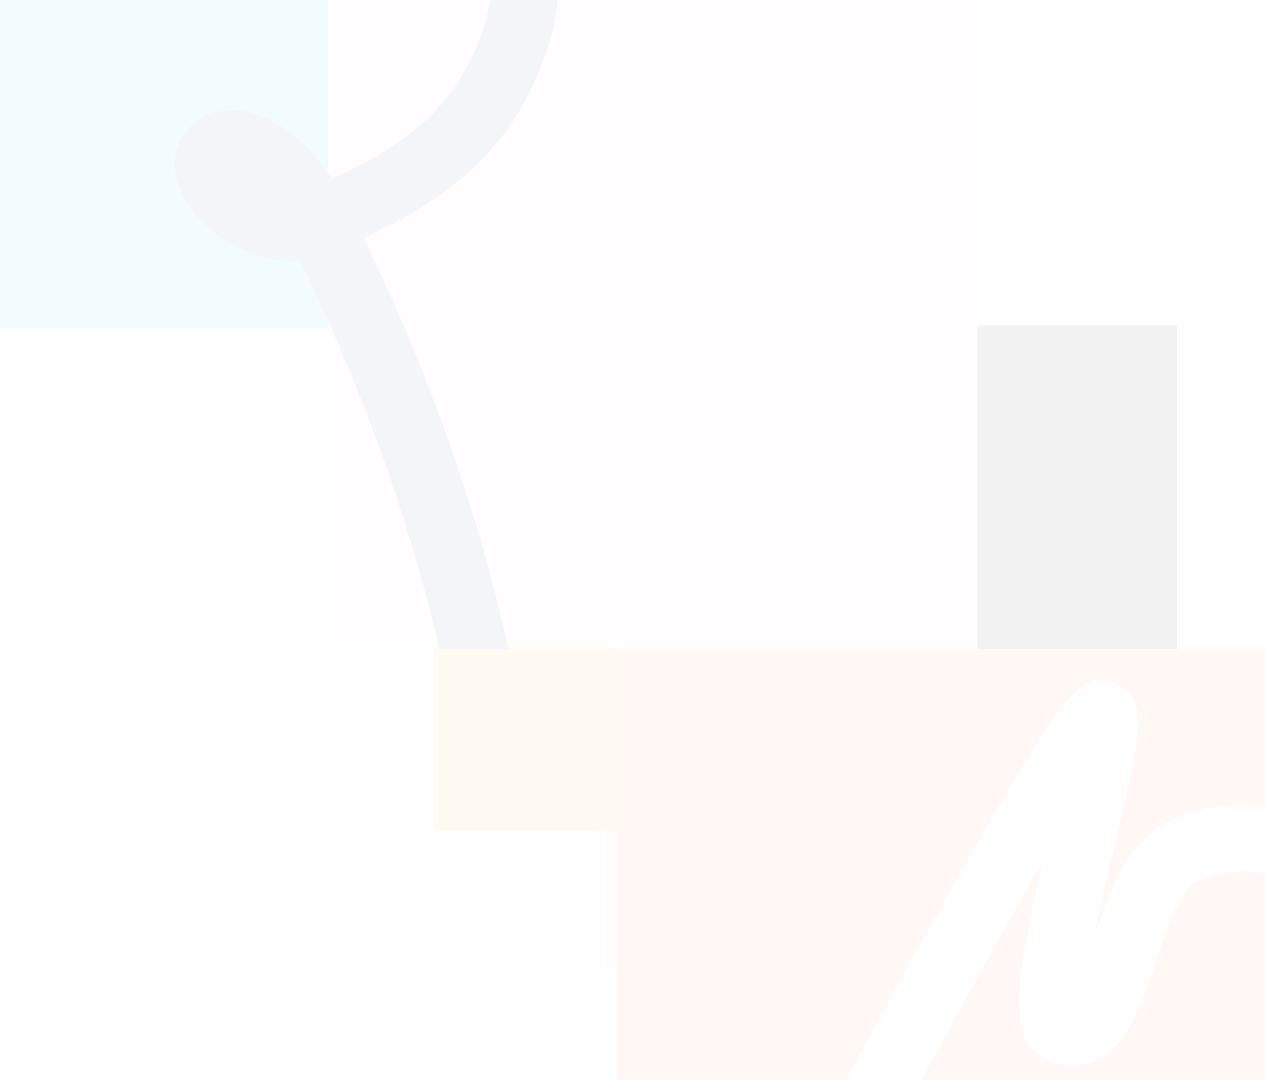
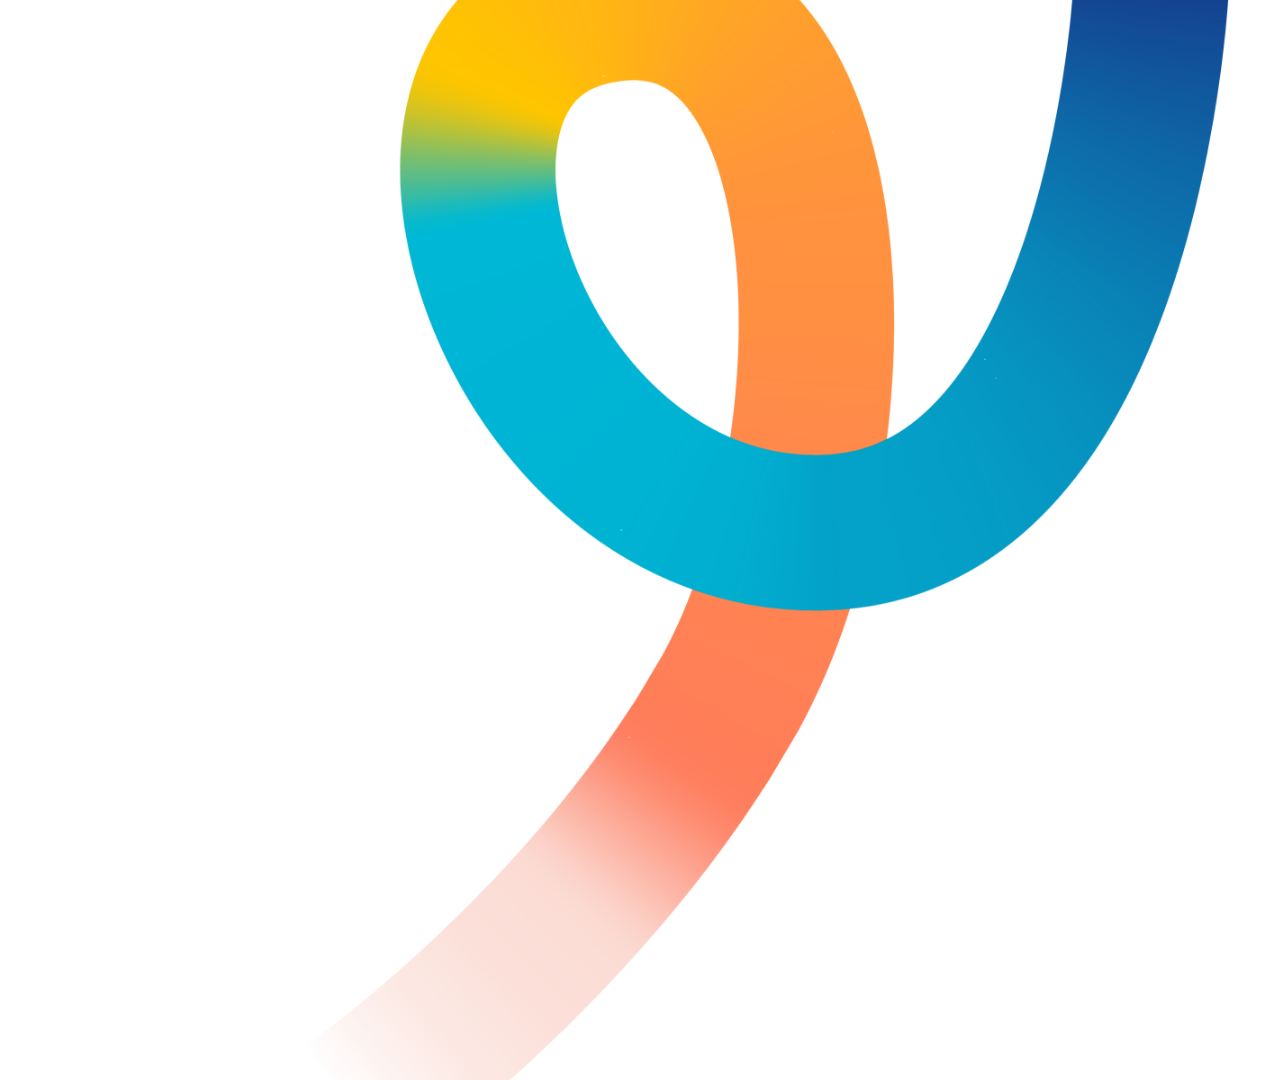
new image of bial academy

Changed region(s): [[0.3081, 0.0, 0.9858, 1.0]]

diff --git a/webapp/src/components/admin/editor/blocks/imageCarousel/index.jsx b/webapp/src/components/admin/editor/blocks/imageCarousel/index.jsx
@@ -1,0 +1,76 @@
+import { Swiper, SwiperSlide } from "swiper/react";
+
+import styles from "../styles.module.css";
+import { Section } from "../../components/section";
+import utils from "../../utils";
+import ImagePickerField from "../image/ImagePickerField";
+
+// Import Swiper styles
+import "swiper/css";
+import "swiper/css/free-mode";
+import "swiper/css/navigation";
+import "swiper/css/thumbs";
+
+import "./styles.css";
+
+// import required modules
+import { FreeMode, Navigation, Thumbs } from "swiper/modules";
+import config from "../../../../../utils/config";
+
+const ImageCarousel = {
+  fields: {
+    images: {
+      type: "array",
+      getItemSummary: (item, i) => item.alt || `Feature #${i}`,
+      defaultItemProps: {
+        alt: "",
+        image: "",
+      },
+      arrayFields: {
+        alt: { type: "text" },
+        image: { type: "custom", label: "Imagem", render: (props) => <ImagePickerField {...props} /> },
+      },
+    },
+    maxWidth: { type: "number" },
+    justifyContent: {
+      label: "Justify Content",
+      type: "radio",
+      options: [
+        { label: "Start", value: "start" },
+        { label: "Center", value: "center" },
+        { label: "End", value: "end" },
+      ],
+    },
+    alignItems: {
+      label: "Align Items",
+      type: "radio",
+      options: [
+        { label: "Start", value: "start" },
+        { label: "Center", value: "center" },
+        { label: "End", value: "end" },
+      ],
+    },
+    maxWidth: { type: "text" },
+  },
+  defaultProps: {
+    images: [],
+    maxWidth: 700,
+    justifyContent: "center",
+    alignItems: "center",
+  },
+  render: ({ images, alignItems, justifyContent, maxWidth }) => {
+    return (
+      <Section maxWidth={maxWidth} justifyContent={justifyContent} alignItems={alignItems}>
+        <Swiper spaceBetween={10} navigation={true} modules={[FreeMode, Navigation]} className="mySwiper2">
+          {images.map((item, i) => (
+            <SwiperSlide>
+              <img alt={item.alt} src={`${config.server_ip}/media/${item.image.url}`}></img>
+            </SwiperSlide>
+          ))}
+        </Swiper>
+      </Section>
+    );
+  },
+};
+
+export default ImageCarousel;

diff --git a/webapp/src/components/admin/editor/blocks/imageCarousel/styles.css b/webapp/src/components/admin/editor/blocks/imageCarousel/styles.css
@@ -1,0 +1,62 @@
+.swiper {
+  width: 100%;
+  height: 100%;
+}
+
+.swiper-slide {
+  text-align: center;
+  font-size: 18px;
+  background: #444;
+
+  /* Center slide text vertically */
+  display: flex;
+  justify-content: center;
+  align-items: center;
+}
+
+.swiper-slide img {
+  display: block;
+  width: 100%;
+  height: 100%;
+  object-fit: cover;
+}
+
+.swiper {
+  width: 100%;
+  height: 300px;
+  margin-left: auto;
+  margin-right: auto;
+}
+
+.swiper-slide {
+  background-size: cover;
+  background-position: center;
+}
+
+.mySwiper2 {
+  height: 80%;
+  width: 100%;
+}
+
+.mySwiper {
+  height: 20%;
+  box-sizing: border-box;
+  padding: 10px 0;
+}
+
+.mySwiper .swiper-slide {
+  width: 25%;
+  height: 100%;
+  opacity: 0.4;
+}
+
+.mySwiper .swiper-slide-thumb-active {
+  opacity: 1;
+}
+
+.swiper-slide img {
+  display: block;
+  width: 100%;
+  height: 100%;
+  object-fit: cover;
+}

diff --git a/webapp/src/layout/main.jsx b/webapp/src/layout/main.jsx
@@ -3,7 +3,7 @@ import { CloseOutlined, DashboardOutlined, DashOutlined, DownOutlined, LoginOutl
 import { Avatar, Button, Divider, Drawer, Dropdown, Layout, Menu } from "antd";
 import { Link, Outlet, useLocation, useNavigate } from "react-router-dom";
 import axios from "axios";
-import logo from "../assets/BIAL-Regional-Academy.svg";
+import logo from "../assets/BIAL-Regional-Academy.png";
 
 import endpoints from "../utils/endpoints";
 import config from "../utils/config";
@@ -17,7 +17,11 @@ import { TbWorld } from "react-icons/tb";
 import { Footer } from "antd/es/layout/layout";
 
 import bialLogo from "../assets/BIAL-logo-footer.svg";
+import bialFooterBg from "../assets/Footer.png";
+import bialFooterMobileBg from "../assets/Footer-mobile.png";
 import NotificationIcon from "../assets/Notifications-off.svg?react";
+import FacebookIcon from "../assets/facebook.svg?react";
+import LinkedInIcon from "../assets/Linkedin.svg?react";
 import { AiFillCloseCircle } from "react-icons/ai";
 import dayjs from "dayjs";
 
@@ -124,7 +128,7 @@ const Main = () => {
                   <div className="bg-[#c1c1c1] p-6 pt-16">
                     <div className="flex justify-start items-center cursor-pointer">
                       <Link to={`/${i18n.language}/account`} className="flex justify-center items-center" onClick={() => closeDrawer()}>
-                        <Avatar className="w-[40px]! h-[40px]!" icon={<FaRegUser />} />
+                        <Avatar className="w-10! h-10!" icon={<FaRegUser />} />
                         <p className="text-[16px] ml-2">
                           {user.name.split(" ")[0]} {user.name.split(" ")[1]}
                         </p>
@@ -371,11 +375,17 @@ const Main = () => {
       <Content className="bg-white min-h-[unset]!">
         <Outlet />
       </Content>
-      <Footer className="bg-[#163986]!">
-        <div className="container flex flex-col md:flex-row justify-between items-end m-auto pt-4 pb-4 gap-8">
+      <Footer className="bg-center! bg-cover!" style={{ background: windowDimension < 768 ? `url(${bialFooterMobileBg})` : `url(${bialFooterBg})` }}>
+        <div className="container flex flex-col md:flex-row justify-between items-end m-auto gap-8">
           <div className="w-full">
-            <div className="mb-4 flex flex-col items-center md:items-start">
-              <p className="text-white">{t("Follow us")}</p>
+            <div className="mb-4 flex justify-center md:justify-start items-center">
+              <p className="text-white mr-4">{t("Follow us")}</p>
+              <Link to={"https://facebook.com/"} target="_blank" className="mr-2">
+                <FacebookIcon className="max-w-7.5" />
+              </Link>
+              <Link to={"https://linkedin.com/"} target="_blank">
+                <LinkedInIcon className="max-w-7.5" />
+              </Link>
             </div>
             <div className="flex justify-center md:justify-start items-center gap-4">
               <Link to={`/${i18n.language}/contact`}>

diff --git a/webapp/src/pages/app/course/eLearning.jsx b/webapp/src/pages/app/course/eLearning.jsx
@@ -20,7 +20,7 @@ import dayjs from "dayjs";
 import Topic from "./topic";
 import Test from "./test";
 
-import logo from "../../../assets/BIAL-Regional-Academy.svg";
+import logo from "../../../assets/BIAL-Regional-Academy.png";
 import Module from "./module";
 import { ArrowLeft, ArrowRight } from "lucide-react";
 
@@ -367,13 +367,11 @@ const Learning = () => {
                             <div className="flex flex-col">
                               <div onClick={() => selectCourseItem(item)} className="p-2 cursor-pointer flex items-center">
                                 {progress.length > 0 && progress.filter((p) => p.activity_type === "module" && p.id_course_module === item.id).length > 0 ? (
-                                  <div
-                                    className={`w-6.25 h-6.25 min-w-6.25 min-h-6.25 min-w-6.25 min-h-6.25 rounded-full bg-[#2F8351] border border-[#2F8351] flex justify-center items-center`}
-                                  >
+                                  <div className={`w-6.25 h-6.25  min-w-6.25 min-h-6.25 rounded-full bg-[#2F8351] border border-[#2F8351] flex justify-center items-center`}>
                                     <AiOutlineCheck className="text-white" />
                                   </div>
                                 ) : (
-                                  <div className={`w-6.25 h-6.25 min-w-6.25 min-h-6.25 min-w-6.25 min-h-6.25 rounded-full bg-white border border-[#2F8351]`}></div>
+                                  <div className={`w-6.25 h-6.25 min-w-6.25 min-h-6.25 rounded-full bg-white border border-[#2F8351]`}></div>
                                 )}
                                 <p className={`text-sm ml-2`}>{item.title}</p>
                                 {data?.course?.settings.progression_type === "linear"
@@ -392,13 +390,11 @@ const Learning = () => {
                               {item.items.map((_t, _i) => (
                                 <div onClick={() => selectCourseItem(_t)} className="p-2 pl-6 cursor-pointer flex items-center">
                                   {progress.length > 0 && progress.filter((p) => p.is_completed && p[`id_course_${_t.type}`] === _t.id).length > 0 ? (
-                                    <div
-                                      className={`w-6.25 h-6.25 min-w-6.25 min-h-6.25 min-w-6.25 min-h-6.25 rounded-full bg-[#2F8351] border border-[#2F8351] flex justify-center items-center`}
-                                    >
+                                    <div className={`w-6.25 h-6.25 min-w-6.25 min-h-6.25 rounded-full bg-[#2F8351] border border-[#2F8351] flex justify-center items-center`}>
                                       <AiOutlineCheck className="text-white" />
                                     </div>
                                   ) : (
-                                    <div className={`w-6.25 h-6.25 min-w-6.25 min-h-6.25 min-w-6.25 min-h-6.25 rounded-full bg-white border border-[#2F8351]`}></div>
+                                    <div className={`w-6.25 h-6.25 min-w-6.25 min-h-6.25 rounded-full bg-white border border-[#2F8351]`}></div>
                                   )}
                                   <p className={`text-sm ml-2 ${selectedCourseItem?.id === _t.id ? "font-bold" : ""}`}>{_t.title}</p>
                                   {data?.course?.settings.progression_type === "linear"

diff --git a/webapp/src/pages/app/index.jsx b/webapp/src/pages/app/index.jsx
@@ -15,6 +15,7 @@ import { useTranslation } from "react-i18next";
 import i18n from "../../utils/i18n";
 import { Helmet } from "react-helmet";
 import Lottie from "lottie-react";
+import mutedVideo from "../../assets/260518-BialAcademyLogo-Animated-Paths.mp4";
 
 export default function Main() {
   const { user, personalization } = useContext(Context);
@@ -38,8 +39,8 @@ export default function Main() {
         <meta property="og:title" content={`Bial Regional Academy`} />
         <meta property="og:description" content={`Bial Regional Academy`} />
       </Helmet>
-      <div className="flex flex-col-reverse lg:grid lg:grid-cols-2 gap-4 h-full">
-        <div className="flex flex-col justify-center h-full">
+      <div className="flex flex-col-reverse lg:grid lg:grid-cols-3 gap-4 h-full">
+        <div className="flex flex-col justify-center h-full col-span-2">
           <p className="text-[30px] font-bold">{t("Sobre Bial Regional Academy")}</p>
           <p className="italic">{t("Keeping training in mind")}</p>
           {data?.text ? (
@@ -52,12 +53,12 @@ export default function Main() {
           {Object.keys(user || {}).length === 0 && (
             <div className="flex items-center">
               <Link to={`/${i18n.language}/login`}>
-                <Button type="primary" className="mt-6 min-w-[120px]" size="large">
+                <Button type="primary" className="mt-6 min-w-30" size="large">
                   {t("Login")}
                 </Button>
               </Link>
               <Link to={`/${i18n.language}/register`}>
-                <Button className="ml-2 mt-6 min-w-[120px]" size="large">
+                <Button className="ml-2 mt-6 min-w-30" size="large">
                   {t("Register")}
                 </Button>
               </Link>
@@ -66,7 +67,9 @@ export default function Main() {
         </div>
 
         <div className="flex justify-center items-center">
-          <Lottie animationData={bialLogoAnimation} loop={true} className="max-w-150 flex justify-center items-center" />
+          <video autoPlay muted loop>
+            <source src={mutedVideo} />
+          </video>
         </div>
       </div>
     </div>

diff --git a/webapp/src/layout/loading.jsx b/webapp/src/layout/loading.jsx
@@ -3,6 +3,7 @@ import Lottie from "lottie-react";
 import bialLogoAnimation from "../assets/Bial-Academy-Logo-Animated.json";
 import trailLoadingAnimation from "../assets/Trail-loading.json";
 import { Context } from "../utils/context";
+import mutedVideo from "../assets/260518-BialAcademyLogo-Animated-Paths.mp4";
 
 import { Spin } from "antd";
 
@@ -12,7 +13,9 @@ const Loading = () => {
   return (
     <div className={`flex flex-col justify-center items-center w-full h-full bg-cover bg-center`}>
       <div className="max-w-150 h-[75%]">
-        <Lottie animationData={bialLogoAnimation} loop={true} />
+        <video autoPlay muted loop>
+          <source src={mutedVideo} />
+        </video>
       </div>
       <div className="max-h-10!">
         <Lottie animationData={trailLoadingAnimation} loop={true} className="max-w-30" />

diff --git a/webapp/src/components/admin/editor/index.jsx b/webapp/src/components/admin/editor/index.jsx
@@ -18,6 +18,7 @@ import { Space } from "./blocks/space";
 import RichText from "./blocks/richText";
 import Video from "./blocks/video";
 import Image from "./blocks/image";
+import ImageCarousel from "./blocks/imageCarousel";
 import { PageComponent } from "./pageComponent";
 import { AiOutlineDrag, AiOutlineFile, AiOutlineFileImage } from "react-icons/ai";
 import { CiVideoOn, CiGrid41, CiText, CiTextAlignLeft, CiImageOn } from "react-icons/ci";
@@ -58,6 +59,7 @@ export const configRender = {
     Video,
     Stats,
     Image,
+    ImageCarousel,
   },
 };
 
@@ -89,6 +91,7 @@ export const config = {
     Video,
     Stats,
     Image,
+    ImageCarousel,
   },
 };
 
@@ -122,6 +125,7 @@ export function Editor({ data, submit }) {
     Button: <RxButton />,
     Space: <CgSpaceBetweenV />,
     Image: <CiImageOn />,
+    ImageCarousel: <CiImageOn />,
   };
 
   function DrawerItemOverride({ name, children, ...rest }) {

diff --git a/server/routes/course.js b/server/routes/course.js
@@ -2,6 +2,7 @@ var express = require("express");
 var dayjs = require("dayjs");
 var util = require("util");
 var router = express.Router();
+var slugify = require("slugify");
 
 var db = require("../utils/database");
 const { read } = require("fs");
@@ -203,6 +204,7 @@ router.post("/create", async (req, res, next) => {
   try {
     const query = util.promisify(db.query).bind(db);
     const data = req.body.data;
+    data.slug = slugify(data.name, { lower: true, strict: true });
     const insertedRow = await query("INSERT INTO course SET ?", data);
     res.send(insertedRow);
   } catch (err) {
@@ -215,6 +217,7 @@ router.post("/update", async (req, res, next) => {
   try {
     let data = req.body.data;
     let whereId = data.id;
+    data.slug = slugify(data.name, { lower: true, strict: true });
     delete data.id;
 
     const columns = Object.keys(data);

diff --git a/webapp/src/layout/admin.jsx b/webapp/src/layout/admin.jsx
@@ -9,7 +9,7 @@ import { TbWorld } from "react-icons/tb";
 import { Context } from "../utils/context";
 import Logout from "../components/logout";
 
-import logo from "../assets/BIAL-Regional-Academy.svg";
+import logo from "../assets/BIAL-Regional-Academy.png";
 import DashboardIcon from "../assets/Backoffice/Menu/Dashboard.svg?react";
 import PagesIcon from "../assets/Backoffice/Menu/Paginas.svg?react";
 import ArticlesIcon from "../assets/Backoffice/Menu/Artigos.svg?react";

diff --git a/webapp/src/pages/app/course/details.jsx b/webapp/src/pages/app/course/details.jsx
@@ -162,7 +162,7 @@ export default function CourseDetails() {
       {data.course && (
         <Helmet>
           <meta charSet="utf-8" />
-          <title>{data.course.name}</title>
+          <title>{data.course.name} - Bial Regional Academy</title>
           <meta name="description" content={data.course.name} />
           <meta property="og:title" content={data.course.name} />
           <meta property="og:description" content={data.course.name} />

diff --git a/webapp/src/pages/auth/login.jsx b/webapp/src/pages/auth/login.jsx
@@ -12,7 +12,7 @@ import dayjs from "dayjs";
 import axios from "axios";
 import endpoints from "../../utils/endpoints";
 
-import logo from "../../assets/BIAL-Regional-Academy.svg";
+import logo from "../../assets/BIAL-Regional-Academy.png";
 import logoBialFooter from "../../assets/BIAL-logo-footer.svg";
 import bgLogin from "../../assets/Background-login.png";
 

diff --git a/webapp/src/pages/auth/recover.jsx b/webapp/src/pages/auth/recover.jsx
@@ -12,7 +12,7 @@ import dayjs from "dayjs";
 import axios from "axios";
 import endpoints from "../../utils/endpoints";
 
-import logo from "../../assets/BIAL-Regional-Academy.svg";
+import logo from "../../assets/BIAL-Regional-Academy.png";
 import logoBialFooter from "../../assets/BIAL-logo-footer.svg";
 import bgLogin from "../../assets/Background-login.png";
 